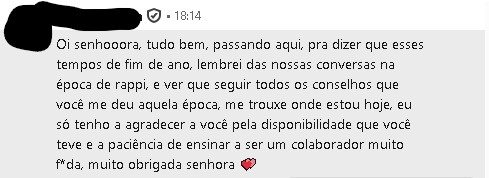
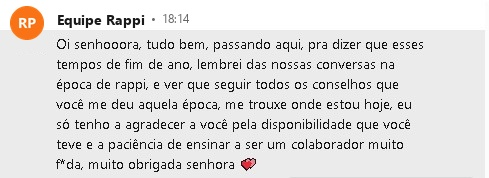
feat: remover borroes dos prints de depoimentos e adicionar depoimento horizontal da Denise Pedroso (Bimbo)

Changed region(s): [[0.0, 0.0, 0.4294, 0.309]]

diff --git a/src/components/TestimonialsSection.tsx b/src/components/TestimonialsSection.tsx
@@ -12,7 +12,7 @@ interface TestimonialItem {
   author: string
   role: string
   company: string
-  category: 'DHL' | 'Mills' | 'Rappi' | 'Geral'
+  category: 'DHL' | 'Mills' | 'Bimbo' | 'Rappi' | 'Geral'
   excerpt: string
   fullText?: string
   image?: string
@@ -159,6 +159,18 @@ export function TestimonialsSection() {
       verified: true,
       highlight: 'Apoio estratégico e mentoria',
     },
+    {
+      id: 'engenheiro-mills',
+      author: 'Engenheiro Mills',
+      role: 'Engenharia & Operações',
+      company: 'Mills',
+      category: 'Mills',
+      excerpt: 'Bom diaa, Rosi! Muito obrigado pelo tempo trabalhando juntos e pode ter certeza que agregou sim e deixou sua marca. Muito boa sorte, abraço!',
+      image: '/depoimentos/engenheiro-mills.jpg',
+      aspect: 'compact',
+      verified: true,
+      highlight: 'Parceria sólida e legado no time',
+    },
   ]
 
   const filtered = selectedCategory === 'all'
@@ -181,7 +193,7 @@ export function TestimonialsSection() {
             O Impacto da Transformação <span className="text-gradient">na Prática</span>
           </h2>
           <p className="text-lg text-gray-600 leading-relaxed">
-            Mensagens espontâneas, feedbacks e histórias reais de executivos, líderes e liderados que vivenciaram a liderança e a metodologia de Bibi Martins em gigantes como <strong>DHL</strong>, <strong>Mills</strong> e <strong>Rappi</strong>.
+            Mensagens espontâneas, feedbacks e histórias reais de executivos, líderes e liderados que vivenciaram a liderança e a metodologia de Bibi Martins em gigantes como <strong>DHL</strong>, <strong>Mills</strong>, <strong>Bimbo</strong> e <strong>Rappi</strong>.
           </p>
 
           {/* Filter Categories */}
@@ -190,6 +202,7 @@ export function TestimonialsSection() {
               { id: 'all', label: 'Todos os Depoimentos' },
               { id: 'DHL', label: 'DHL Supply Chain' },
               { id: 'Mills', label: 'Mills Estruturas' },
+              { id: 'Bimbo', label: 'Bimbo Brasil' },
               { id: 'Rappi', label: 'Rappi Brasil' },
             ].map(tab => (
               <button
@@ -389,7 +402,63 @@ export function TestimonialsSection() {
           </div>
         )}
 
-        {/* 3. GRADE DE PROVAS SOCIAIS E PRINTS REAIS */}
+        {/* 3. DEPOIMENTO EM EXTENSÃO HORIZONTAL (DENISE PEDROSO - BIMBO) */}
+        {(selectedCategory === 'all' || selectedCategory === 'Bimbo') && (
+          <div className="mb-14">
+            <Card className="border border-orange-100 shadow-xl bg-gradient-to-br from-orange-50/70 via-white to-purple-50/60 rounded-3xl overflow-hidden">
+              <CardContent className="p-6 sm:p-8 lg:p-10 space-y-6">
+                <div className="flex flex-wrap items-center justify-between gap-4 border-b border-orange-100/80 pb-5">
+                  <div className="flex flex-wrap items-center gap-3">
+                    <Badge className="bg-orange-100 text-orange-700 hover:bg-orange-200 border-orange-200">
+                      <Award className="w-3.5 h-3.5 mr-1 text-orange-600" />
+                      Liderança Humana & Autoridade
+                    </Badge>
+                    <span className="text-xs font-semibold text-gray-500 uppercase tracking-wider">
+                      Bimbo Brasil • Equipe de Operações
+                    </span>
+                    <span className="text-xs text-emerald-600 font-semibold flex items-center gap-1 bg-emerald-50 px-2.5 py-1 rounded-full border border-emerald-200/60">
+                      <CheckCircle2 className="w-3.5 h-3.5" /> Depoimento Real Verificado
+                    </span>
+                  </div>
+
+                  <div className="flex items-center gap-3">
+                    <div className="w-11 h-11 rounded-xl bg-gradient-to-tr from-orange-500 to-purple-600 text-white flex items-center justify-center font-bold text-base shadow-sm">
+                      DP
+                    </div>
+                    <div>
+                      <h4 className="font-bold text-gray-900 text-base leading-tight">Denise Pedroso</h4>
+                      <p className="text-xs text-gray-500">Relato Profissional • Equipe de Operações — <span className="text-orange-600 font-semibold">Bimbo</span></p>
+                    </div>
+                  </div>
+                </div>
+
+                <h3 className="text-xl sm:text-2xl lg:text-3xl font-bold text-gray-900 leading-snug">
+                  "Em um setor majoritariamente masculino, exercer a liderança com respeito, equilíbrio e sem conflitos é algo realmente inspirador e admirável."
+                </h3>
+
+                <blockquote className="lg:columns-2 lg:gap-10 text-gray-700 text-base leading-relaxed space-y-4">
+                  <p className="break-inside-avoid">
+                    "Rose, gestora, uma pessoa pontual, firme e, acima de tudo, humana. Em um setor majoritariamente masculino, conseguir exercer a liderança com respeito, equilíbrio e sem conflitos é algo realmente inspirador e admirável."
+                  </p>
+                  <p className="break-inside-avoid">
+                    "Sua forma de conduzir a equipe, dando suporte tanto coletivo quanto individual, demonstra que liderar vai muito além de cobrar resultados. É também saber ouvir, compreender e tentar enxergar as dores e dificuldades de cada um que está na rua, enfrentando diariamente os desafios do trabalho."
+                  </p>
+                  <p className="break-inside-avoid">
+                    "Rose procura entender as necessidades de cada profissional, oferecendo apoio e buscando soluções sempre que possível. Sua postura firme, aliada à empatia e ao respeito, faz diferença no dia a dia de toda a equipe."
+                  </p>
+                  <p className="break-inside-avoid">
+                    "Ser líder é ter autoridade, mas também saber acolher. É cobrar quando necessário, mas reconhecer as dificuldades. E é justamente esse equilíbrio que torna sua liderança tão especial."
+                  </p>
+                  <p className="break-inside-avoid font-medium text-gray-800">
+                    "Por tudo isso, Rose, fica aqui minha admiração, respeito e reconhecimento pelo trabalho que você realiza e pela maneira como conduz a equipe."
+                  </p>
+                </blockquote>
+              </CardContent>
+            </Card>
+          </div>
+        )}
+
+        {/* 4. GRADE DE PROVAS SOCIAIS E PRINTS REAIS */}
         <div className="grid md:grid-cols-2 lg:grid-cols-3 gap-6">
           {filtered.map((item) => (
             <Card 
